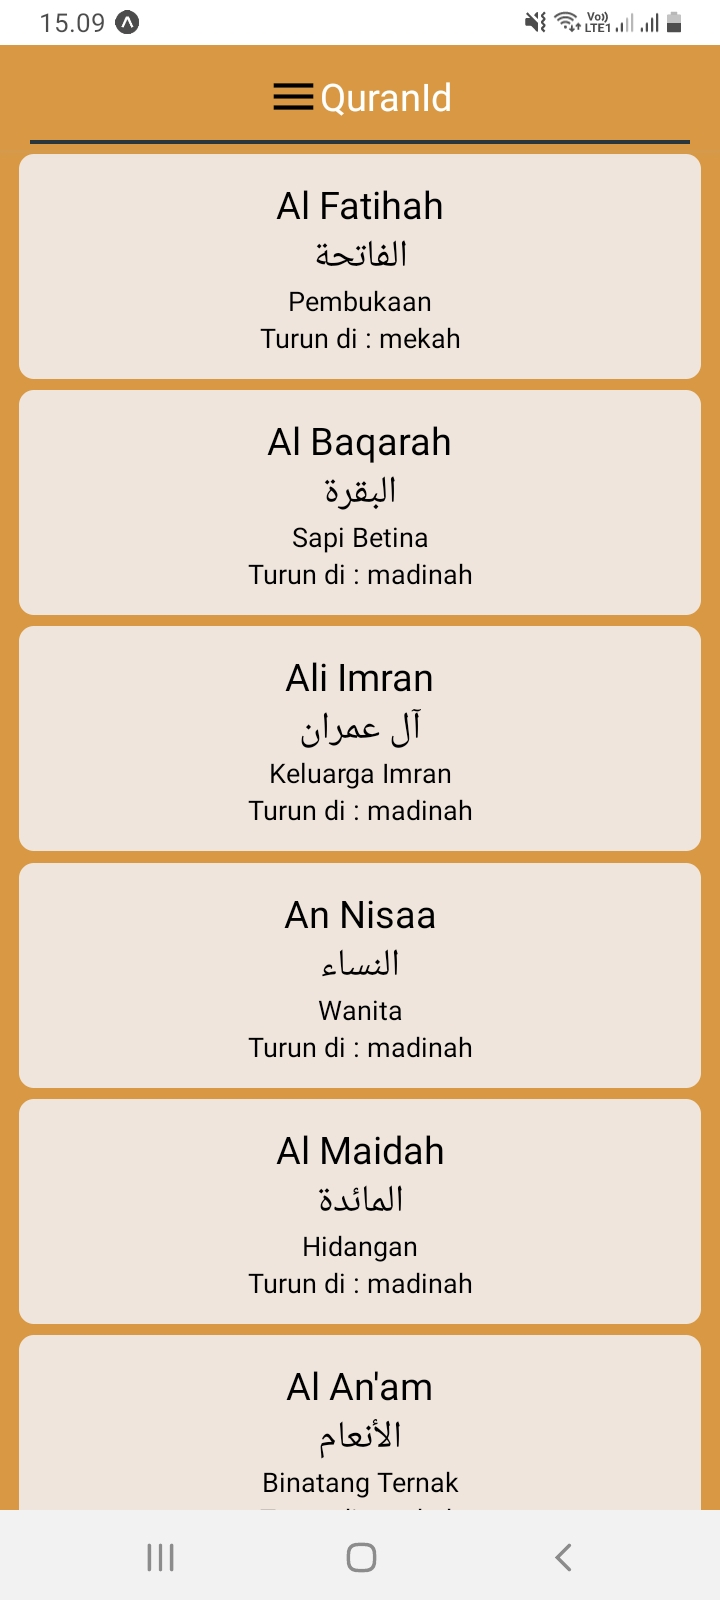
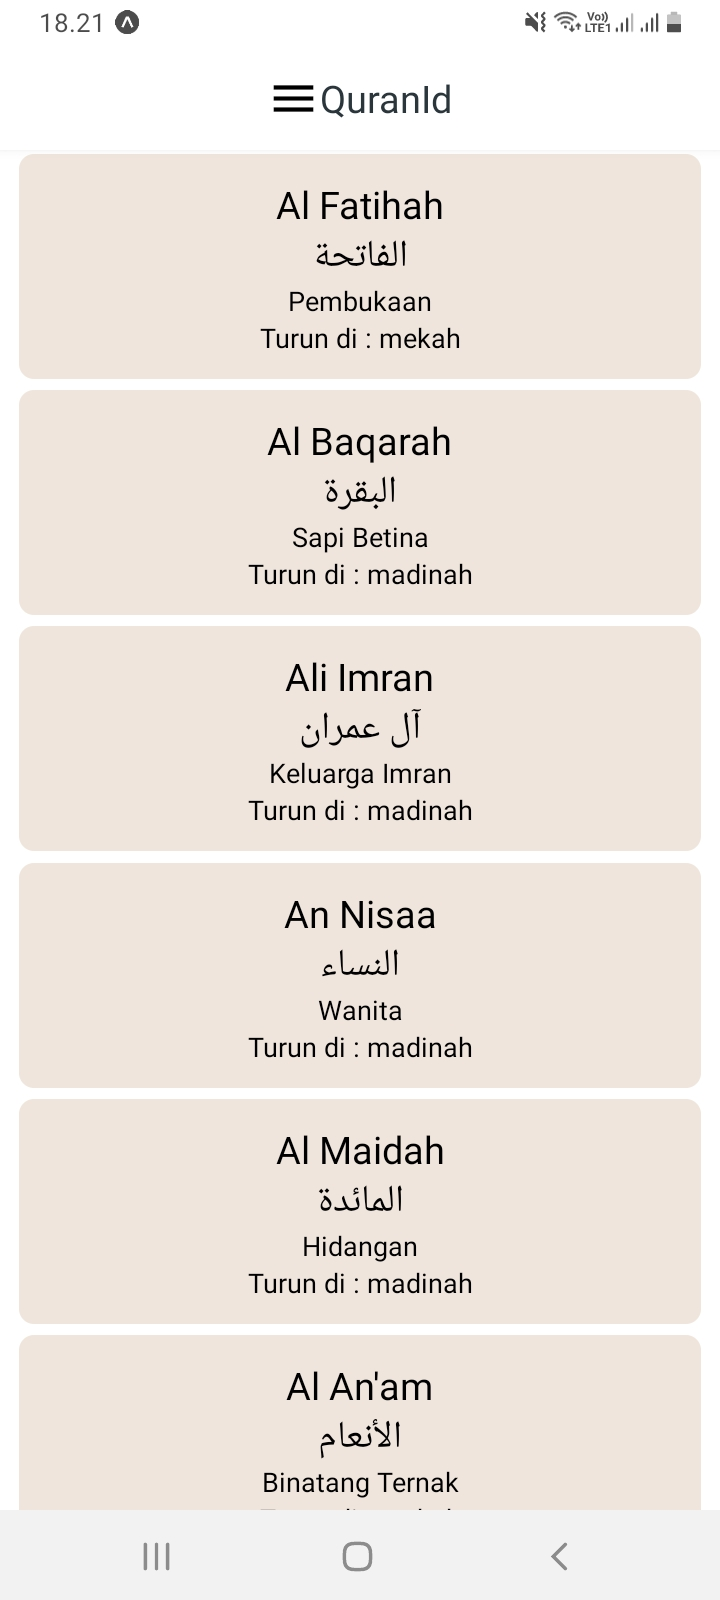
update image

diff --git a/src/components/Ayat.Component.js b/src/components/Ayat.Component.js
@@ -11,6 +11,7 @@ const Ayat = ({ ayatQuran }) => {
                         <Text style={{ justifyContent: 'flex-end' }}>{ayat.nomor}</Text>
                         <Text style={styles.textAyat}>{ayat.ar}</Text>
                         <Text style={styles.textIndo}>{ayat.id}</Text>
+
                     </View>
                 ))
             }
@@ -18,9 +19,11 @@ const Ayat = ({ ayatQuran }) => {
     )
 }
 
+// backgroundColor: '#d99944',
+
 const styles = StyleSheet.create({
     containerAyat: {
-        backgroundColor: '#d99944',
+        backgroundColor: '#fff'
     },
     cardAyat: {
         backgroundColor: '#f0e5dd',

diff --git a/src/components/Home.Component.js b/src/components/Home.Component.js
@@ -3,7 +3,7 @@ import { SafeAreaView, StyleSheet, Text, View } from 'react-native';
 import SuratList from './SuratList.Component';
 
 
-const Home = ({navigation}) => {
+const Home = ({ navigation }) => {
     return (
         <SafeAreaView style={styles.container}>
             <View>
@@ -16,7 +16,7 @@ const Home = ({navigation}) => {
 const styles = StyleSheet.create({
     container: {
         flex: 1,
-        backgroundColor: '#d99944',
+        backgroundColor: '#fff',
     },
 });
 

diff --git a/src/components/Header.Component.js b/src/components/Header.Component.js
@@ -22,8 +22,6 @@ const Header = ({ navigation, title }) => {
 
 const styles = StyleSheet.create({
     header: {
-        borderBottomWidth: 2,
-        borderBottomColor: '#2a363b',
         height: 50,
         flexDirection: 'row',
         alignItems: 'center',
@@ -31,7 +29,7 @@ const styles = StyleSheet.create({
     },
     headerText: {
         fontSize: 20,
-        color: 'white'
+        color: '#2a363b'
     }
 })
 

diff --git a/src/components/AyatList.Component.js b/src/components/AyatList.Component.js
@@ -19,7 +19,7 @@ const AyatList = ({ navigation }) => {
     }, [])
 
     return (
-        <ScrollView>
+        <ScrollView style={styles.container}>
             <Ayat ayatQuran={ayatQuran} />
         </ScrollView>
     )
@@ -28,7 +28,7 @@ const AyatList = ({ navigation }) => {
 
 const styles = StyleSheet.create({
     container: {
-        backgroundColor: '#d99944',
+        backgroundColor: '#fff',
     }
 })
 

diff --git a/src/routes/stack/Home.Stack.js b/src/routes/stack/Home.Stack.js
@@ -20,9 +20,9 @@ const screens = {
 
 const HomeStack = createStackNavigator(screens, {
     defaultNavigationOptions: {
-        headerTintColor: '#EEE',
+        headerTintColor: '#2a363b',
         headerStyle: {
-            backgroundColor: '#d99944'
+            backgroundColor: '#fff'
         }
     }
 })

diff --git a/src/components/SuratList.Component.js b/src/components/SuratList.Component.js
@@ -10,7 +10,6 @@ const SuratList = ({ navigation }) => {
     const fetchSuratList = async () => {
         const { data } = await server.get('/surah');
         setDataSuratList(data.data);
-        console.log(data.data)
     }
 
     useEffect(() => {
